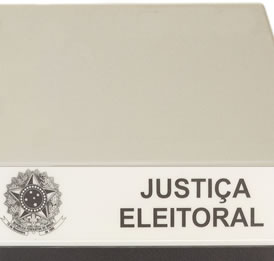
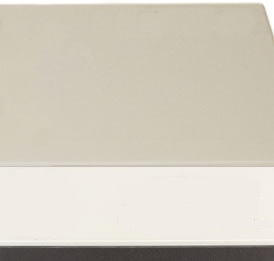
Update

Changed region(s): [[0.438, 0.6743, 0.9635, 0.8889], [0.0, 0.6437, 0.2336, 0.9195]]

diff --git a/src/main/java/views/UrnaEletronicaView.java b/src/main/java/views/UrnaEletronicaView.java
@@ -1,4 +1,6 @@
 import javax.swing.*;
+
+import java.awt.Color;
 import java.awt.Image;
 
 public class UrnaEletronicaView extends JFrame {
@@ -11,6 +13,7 @@ public class UrnaEletronicaView extends JFrame {
         setSize(500,500);
         setDefaultCloseOperation(JFrame.EXIT_ON_CLOSE);
         panel = new JPanel(null);
+        panel.setBackground(Color.WHITE);
         add(panel);
 
         String caminhoUser = System.getProperty("user.dir");
